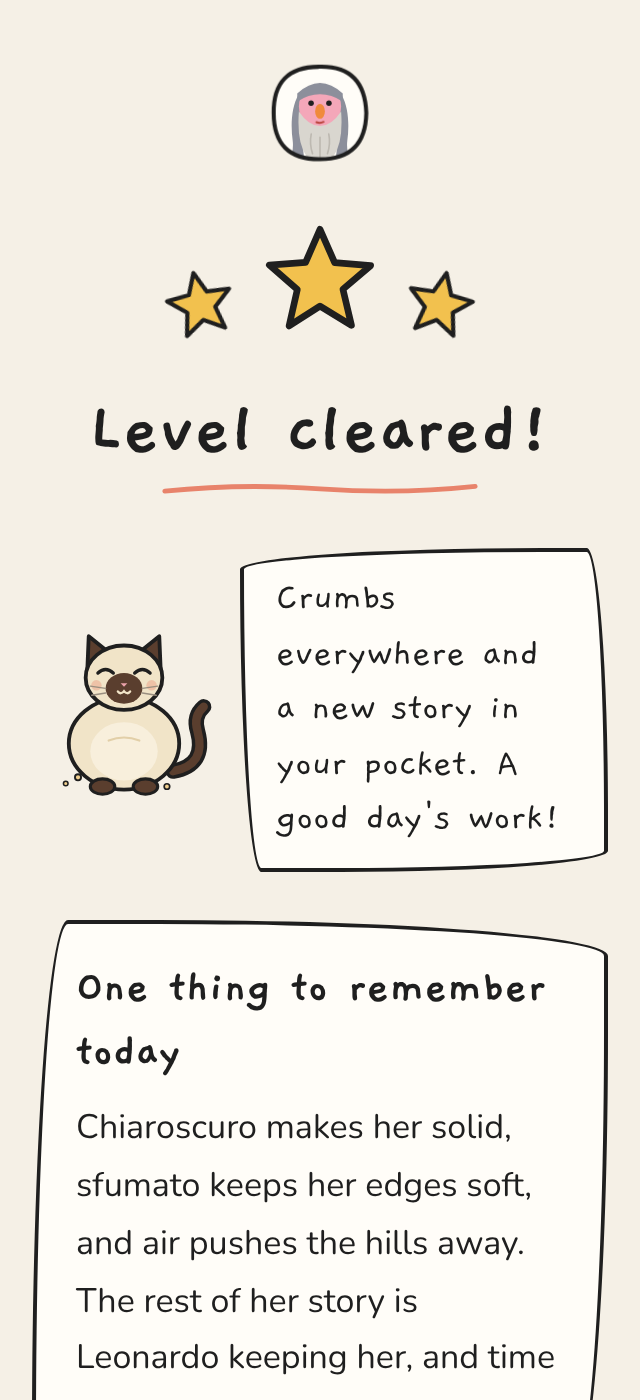
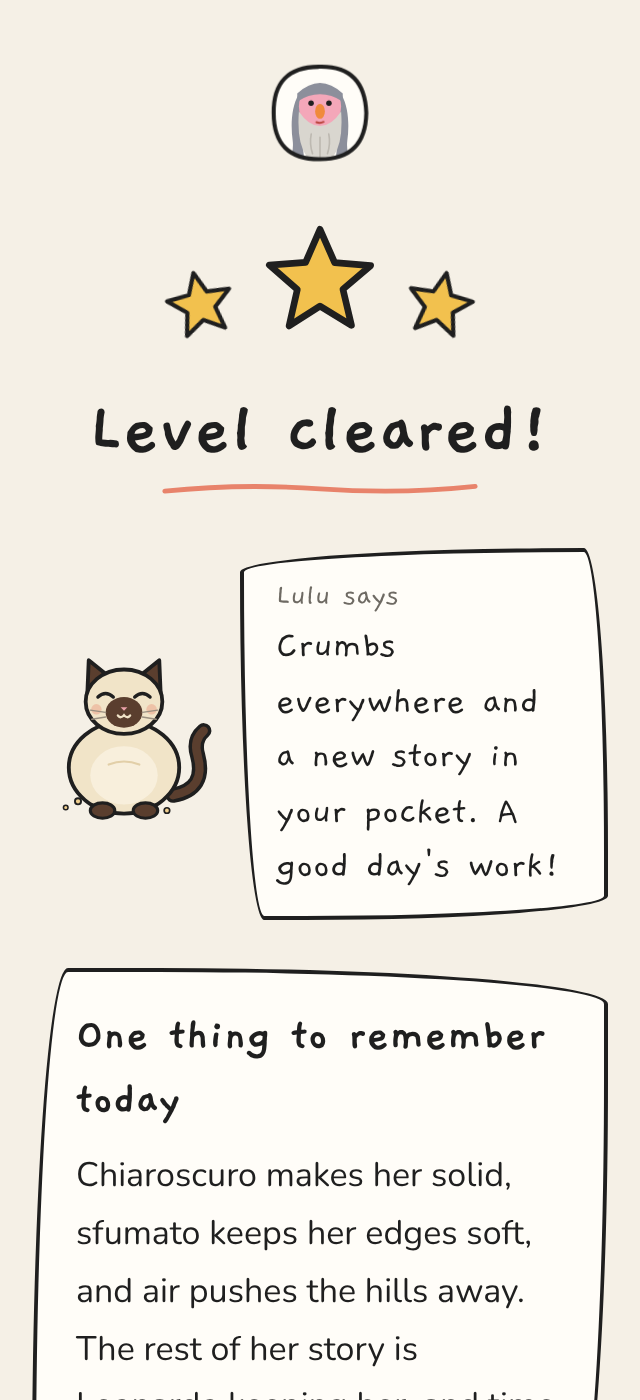
Name the helper cats TT and Lulu
PRODUCT.md records the names (Chinese names reserved for a future zh
version); identifiers, comments and alt/aria text use them, and the cleared
page line is captioned 'Lulu says'.

Claude-Session: https://claude.ai/code/session_01PaAohou2zTKTEuzrV9m3xH

diff --git a/src/doodles/cats.tsx b/src/doodles/cats.tsx
@@ -3,18 +3,21 @@
 // one stroke weight, crayon fills. They are product helpers, never narrators
 // of an artwork, and they never say an art fact.
 //
-// - SignKitten: a grey-and-white American Shorthair kitten (silver coat with
+// - TTKitten: TT, a grey-and-white American Shorthair kitten (silver coat with
 //   classic tabby swirls, white muzzle and paws), paws raised to hold up the
 //   countdown sign that sits just above it.
-// - SiameseChew: the Siamese cat's head (cream face, dark brown points, blue
+// - LuluChew: Lulu, the Siamese cat: her head (cream face, dark brown points, blue
 //   eyes) chewing the end of the baguette, for the level progress bar.
-// - SiameseFull: the same cat sitting, belly round, eyes shut happily, for
+// - LuluFull: Lulu sitting, belly round, eyes shut happily, for
 //   the level-cleared page.
 // - Baguette: the loaf the progress bar is made of.
 
 import type { CSSProperties } from "react";
 
-type DoodleProps = { className?: string; style?: CSSProperties };
+type DoodleProps = { className?: string; style?: CSSProperties; title?: string };
+
+/** Named image when a title is given, decorative otherwise. */
+const a11y = (title?: string) => (title ? { role: "img", "aria-label": title } : { "aria-hidden": true as const });
 
 const INK = "var(--color-ink)";
 const W = 2.5;
@@ -31,10 +34,10 @@ const BLUE = "#5f9bd6";
 const CRUST = "#d79b52";
 const CRUMB = "#f0cf8f";
 
-/** The countdown kitten, paws up. The sign itself is HTML just above it. */
-export function SignKitten({ className, style }: DoodleProps) {
+/** TT, the countdown kitten, paws up. The sign itself is HTML just above it. */
+export function TTKitten({ className, style, title }: DoodleProps) {
   return (
-    <svg viewBox="0 0 96 82" className={className} style={style} aria-hidden="true">
+    <svg viewBox="0 0 96 82" className={className} style={style} {...a11y(title)}>
       {/* body, cut by the bottom edge */}
       <ellipse cx="48" cy="80" rx="27" ry="13" {...line} fill={GREY} />
       <path d="M40 72 Q48 78 56 72 L55 82 L41 82 Z" fill={WHITE} />
@@ -78,10 +81,10 @@ export function SignKitten({ className, style }: DoodleProps) {
   );
 }
 
-/** The Siamese cat's head, chewing the baguette end at its right edge. */
-export function SiameseChew({ className, style }: DoodleProps) {
+/** Lulu's head, chewing the baguette end at its right edge. */
+export function LuluChew({ className, style, title }: DoodleProps) {
   return (
-    <svg viewBox="0 0 48 44" className={className} style={style} aria-hidden="true">
+    <svg viewBox="0 0 48 44" className={className} style={style} {...a11y(title)}>
       <path d="M8 18 L9 3 L20 11 Z" {...line} fill={POINT} strokeWidth={2} />
       <path d="M36 11 L44 4 L43 19 Z" {...line} fill={POINT} strokeWidth={2} />
       <ellipse cx="25" cy="24" rx="18" ry="16" {...line} fill={CREAM} strokeWidth={2} />
@@ -98,10 +101,10 @@ export function SiameseChew({ className, style }: DoodleProps) {
   );
 }
 
-/** The Siamese cat sitting, belly round and full, eyes shut with pleasure. */
-export function SiameseFull({ className, style }: DoodleProps) {
+/** Lulu sitting, belly round and full, eyes shut with pleasure. */
+export function LuluFull({ className, style, title }: DoodleProps) {
   return (
-    <svg viewBox="0 0 120 112" className={className} style={style} aria-hidden="true">
+    <svg viewBox="0 0 120 112" className={className} style={style} {...a11y(title)}>
       {/* tail curling round the side */}
       <path d="M92 96 Q114 92 108 70 Q105 60 112 54" fill="none" stroke={INK} strokeWidth="10" strokeLinecap="round" />
       <path d="M92 96 Q114 92 108 70 Q105 60 112 54" fill="none" stroke={POINT} strokeWidth="5.5" strokeLinecap="round" />

diff --git a/src/components/BaguetteBar.tsx b/src/components/BaguetteBar.tsx
@@ -1,13 +1,13 @@
 // The baguette progress bar (PRODUCT.md "Baguette progress"): a long loaf
-// along the bottom of a level, with the Siamese cat chewing at its left end.
-// Each answered question is one more share eaten: the cat moves along and the
+// along the bottom of a level, with Lulu the Siamese cat chewing at its left end.
+// Each answered question is one more share eaten: Lulu moves along and the
 // eaten part is gone. Tied to the same `answered` count as "Question n / N",
 // so a resumed level shows the same amount eaten. When the count goes up the
 // cat gives one small chomp (a one-shot, not on a resumed screen, none under
 // reduced motion).
 
 import type { CSSProperties } from "react";
-import { Baguette, SiameseChew } from "@/doodles/cats";
+import { Baguette, LuluChew } from "@/doodles/cats";
 
 const CAT = 44; // px
 
@@ -17,11 +17,11 @@ export default function BaguetteBar({ answered, total, chomp }: { answered: numb
   return (
     <div
       role="progressbar"
-      aria-label="Baguette eaten"
+      aria-label="Lulu's baguette: questions answered"
       aria-valuemin={0}
       aria-valuemax={total}
       aria-valuenow={Math.min(answered, total)}
-      aria-valuetext={`${Math.min(answered, total)} of ${total} questions answered`}
+      aria-valuetext={`Lulu has eaten ${Math.min(answered, total)} of ${total} pieces: ${Math.min(answered, total)} of ${total} questions answered`}
       className="relative h-14 overflow-x-clip"
       style={{ "--share": share, "--cat": `${CAT}px` } as CSSProperties}
     >
@@ -34,7 +34,7 @@ export default function BaguetteBar({ answered, total, chomp }: { answered: numb
       {/* The cat travels in a box one cat narrower than the bar, so it never runs past the end. */}
       <div className="absolute inset-y-0 left-0" style={{ right: `${CAT}px` }}>
         <div className="h-full" style={{ transform: `translateX(${share * 100}%)` }}>
-          <SiameseChew key={answered} className={`h-11 w-11 ${chomp ? "m-chomp" : ""}`} />
+          <LuluChew key={answered} className={`h-11 w-11 ${chomp ? "m-chomp" : ""}`} />
         </div>
       </div>
     </div>

diff --git a/src/app/lesson/[id]/done/page.tsx b/src/app/lesson/[id]/done/page.tsx
@@ -5,7 +5,7 @@ import ClearedNext, { type ChapterLevels } from "@/components/ClearedNext";
 import type { CSSProperties } from "react";
 import { StarDoodle, UnderlineDoodle } from "@/doodles";
 import { Head } from "@/doodles/avatars";
-import { SiameseFull } from "@/doodles/cats";
+import { LuluFull } from "@/doodles/cats";
 import { fullCatLine } from "@/lib/cat-lines";
 import { getBook } from "@/lib/catalogue";
 import { getRoundForLevel } from "@/lib/challenge";
@@ -61,12 +61,13 @@ export default async function DonePage({ params }: Params) {
         <UnderlineDoodle className="mx-auto mt-1 h-3 w-40" draw />
       </div>
 
-      {/* The baguette cat, belly round (PRODUCT.md "Baguette progress"): thanks, never a fact. */}
+      {/* Lulu, the baguette cat, belly round (PRODUCT.md "Baguette progress"): thanks, never a fact. */}
       <figure className="m-full flex items-center gap-3">
-        <SiameseFull className="h-auto w-[92px] shrink-0" />
-        <blockquote className="wobbly relative flex-1 border-2 border-ink bg-mat px-4 py-2.5 font-hand text-xl leading-snug">
+        <LuluFull title="Lulu the Siamese cat, belly round and full" className="h-auto w-[92px] shrink-0" />
+        <figcaption className="wobbly relative flex-1 border-2 border-ink bg-mat px-4 py-2.5 font-hand text-xl leading-snug">
+          <span className="block text-base text-muted">Lulu says</span>
           {fullCatLine(level.lesson.id)}
-        </blockquote>
+        </figcaption>
       </figure>
 
       <section className="m-takeaway wobbly-alt border-[2.5px] border-ink bg-mat px-5 py-4">

diff --git a/src/components/VisitCountdown.tsx b/src/components/VisitCountdown.tsx
@@ -1,14 +1,14 @@
 "use client";
 
 // The visit countdown on the cover (PRODUCT.md "Visit countdown"): the
-// grey-and-white kitten holds up a sign, "N days to the Louvre", counting down
+// grey-and-white kitten TT holds up a sign, "N days to the Louvre", counting down
 // to the visit day the player picked. The picker only takes a future date.
 // No day yet: the sign asks for one. The day itself: "Louvre day!". A day
 // that has passed: a gentle line and the picker, to choose the next visit.
 // Stored only in localStorage (lib/visit); nothing renders until it is read.
 
 import { useEffect, useId, useState } from "react";
-import { SignKitten } from "@/doodles/cats";
+import { TTKitten } from "@/doodles/cats";
 import { daysUntil, formatVisit, getVisit, setVisit, tomorrowIso } from "@/lib/visit";
 
 type State = { visit: string | null; editing: boolean };
@@ -53,7 +53,7 @@ export default function VisitCountdown() {
       >
         {sign}
       </p>
-      <SignKitten className="relative z-20 -mt-4 h-auto w-[104px]" />
+      <TTKitten title="TT the kitten holds up the countdown sign" className="relative z-20 -mt-4 h-auto w-[104px]" />
 
       <div className="mt-2 w-full text-center">
         {!picking && state.visit && (

diff --git a/src/lib/cat-lines.ts b/src/lib/cat-lines.ts
@@ -1,4 +1,4 @@
-// What the Siamese cat says on a level-cleared page (PRODUCT.md "Baguette
+// What Lulu, the Siamese cat, says on a level-cleared page (PRODUCT.md "Baguette
 // progress"). Warm thanks only: no art facts, nothing about the work, so a
 // line can never leak an answer or need a source. One line per level, picked
 // from this small pool by the level id, so the same level always says the
